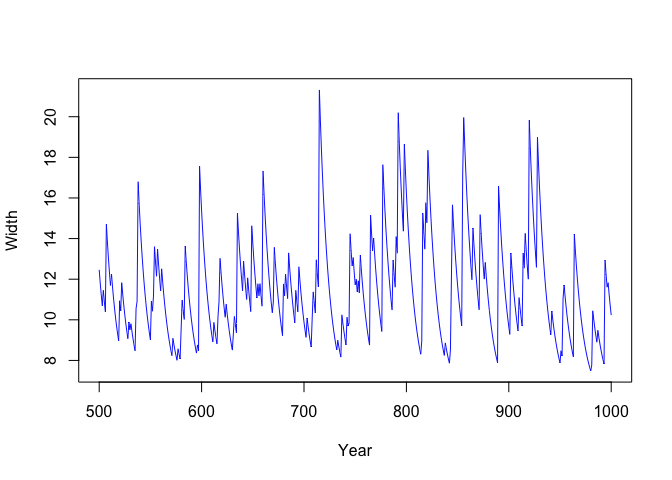
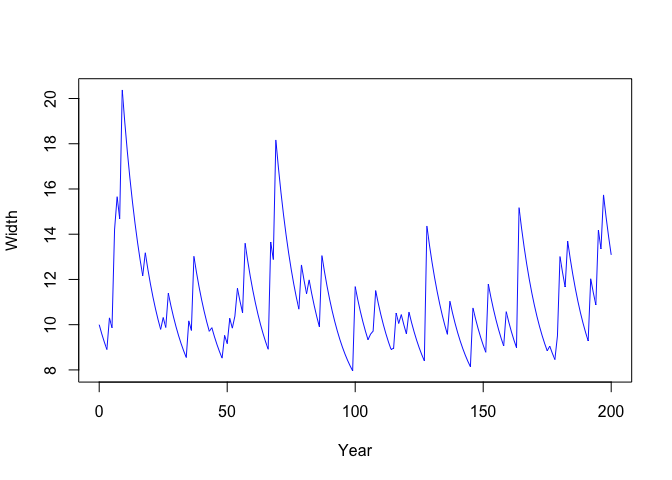
Build README

diff --git a/README.md b/README.md
@@ -78,21 +78,42 @@ plot(h)
 
 <img src="man/figures/README-unnamed-chunk-5-1.png" width="100%" />
 
-Run the stochasim algorithm. Plot the evolution of width from year 500
-onwards.
+Run the stochasim algorithm. Plot the evolution of width.
 
 ``` r
-ss <- stochasim(h, cs)
-#> ||||||||||||||||||||||||||||||||||||||||||||||||||||||||||||||||||||||||||||||||||||||||||||||||||||||||||||||||||||||||||||||||||||||||||||||||||||||||||||||||||||||||||||||||||||||||||||||||||||||||||||||||||||||||||||||||||||||||||||||||||||||||||||||||||||||||||||||||||||||||||||||||||||||||||||||||||||||||||||||||||||||||||||||||||||||||||||||||||||||||||||||||||||||||||||||||||||||||||||||||||||||||||||||||||||||||||||||||||||||||||||||||||||||||||||||||||||||||||||||||||||||||||||||||||||||||||||||||||||||||||||||||||||||||||||||||||||||||||||||||||||||||||||||||||||||||||||||||||||||||||||||||||||||||||||||||||||||||||||||||||||||||||||||||||||||||||||||||||||||||||||||||||||||||||||||||||||||||||||||||||||||||||||||||||||||||||||||||||||||||||||||||||||||||||||||||||||||||||||||||||||||||||||||||||||||||||||||||||||||||||||||||||||||||||||||||||||||||||||||||||||||||||||||||||||||||||||||||||||||||||||||||||||||||||||||||||||||||||||||||||||||||||||||||||||||||||||||||||||||||
-plot(ss, from = 500)
+ss <- realise(h, n = 200) |> 
+  stochasim(cs)
+plot(ss)
 ```
 
 <img src="man/figures/README-unnamed-chunk-6-1.png" width="100%" />
 
-Plot the peak discharges from year 500 onwards.
+For running two event hydrographs per iteration, use `stochasim2()`.
+Here is an example of a snowmelt-related event followed by a
+rainfall-related event, with revegetation only happening if no erosion
+occurs with the rainfall-related event.
 
 ``` r
-plot(ss, from = 500, what = "flows")
+dst_snow <- hydist_snow(dst_norm(13, 2^2), baseflow = q / 4)
+set.seed(43)
+rain <- realise(h, n = 200)
+snow <- realise(dst_snow, n = 200)
+(ss2 <- stochasim2(snow, rain, cross_section = cs, progress = TRUE))
+#> Stochasim object with 200 runs.
 ```
 
-<img src="man/figures/README-unnamed-chunk-7-1.png" width="100%" />
+Plot the evolution of width.
+
+``` r
+plot(ss2)
+```
+
+<img src="man/figures/README-unnamed-chunk-8-1.png" width="100%" />
+
+Plot the peak flows.
+
+``` r
+plot(ss2, what = "flows")
+```
+
+<img src="man/figures/README-unnamed-chunk-9-1.png" width="100%" />
